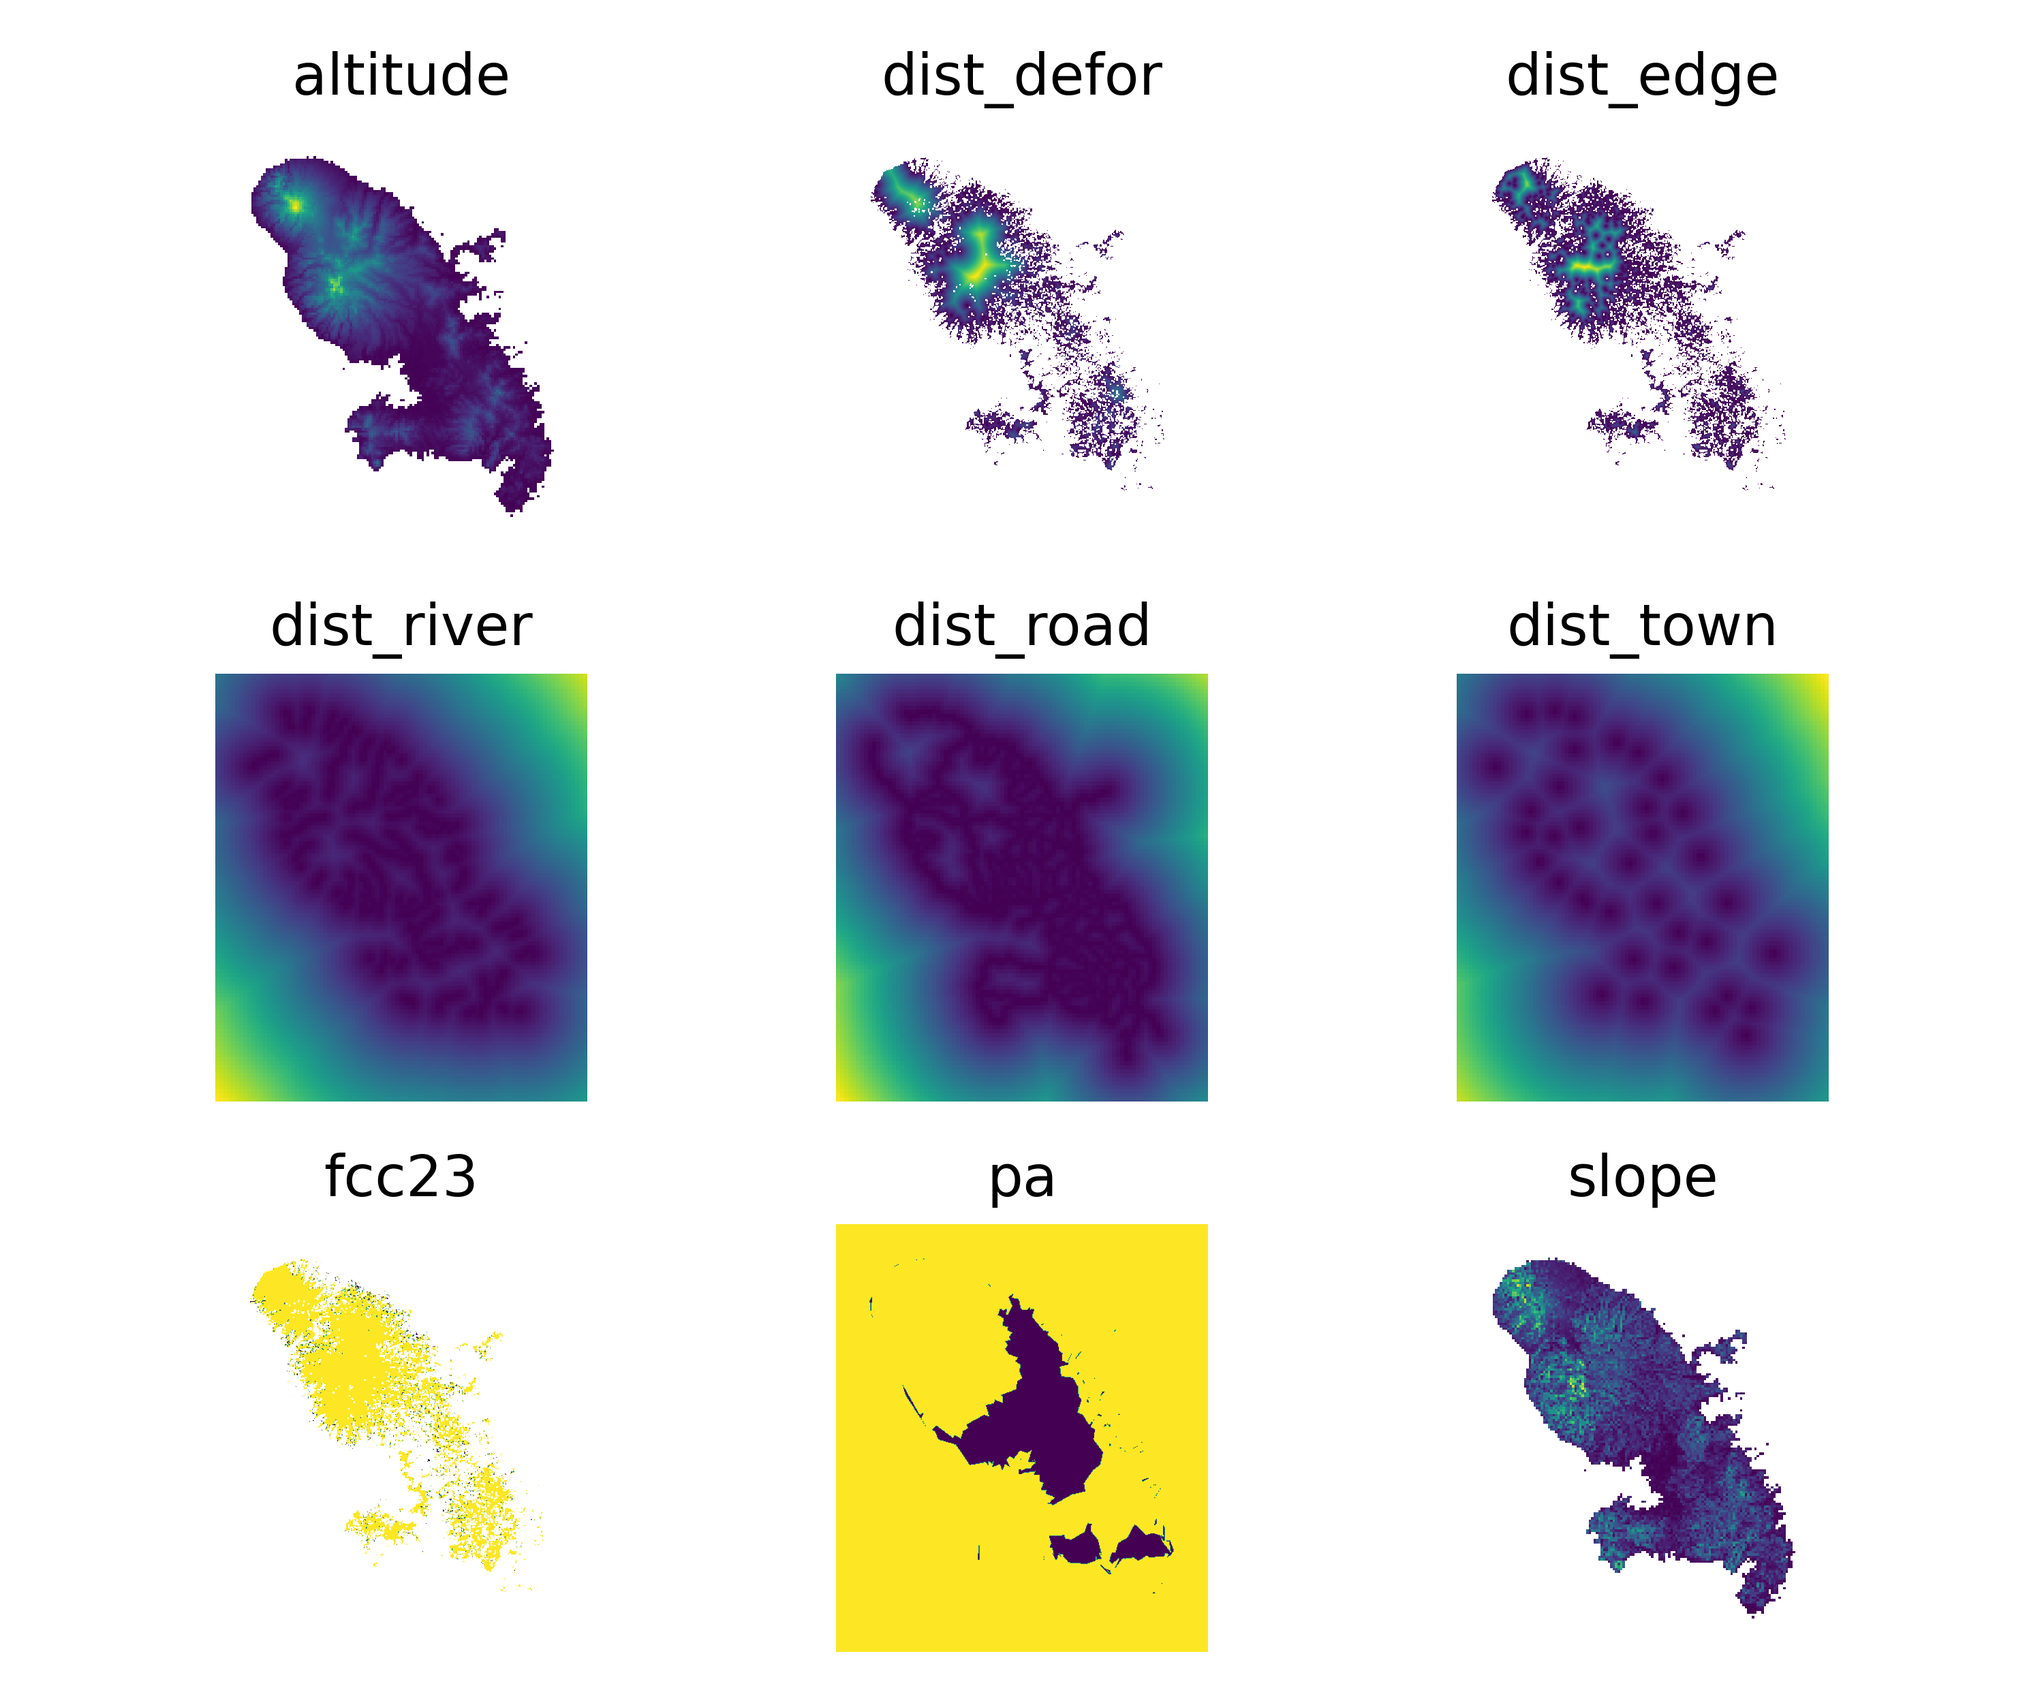
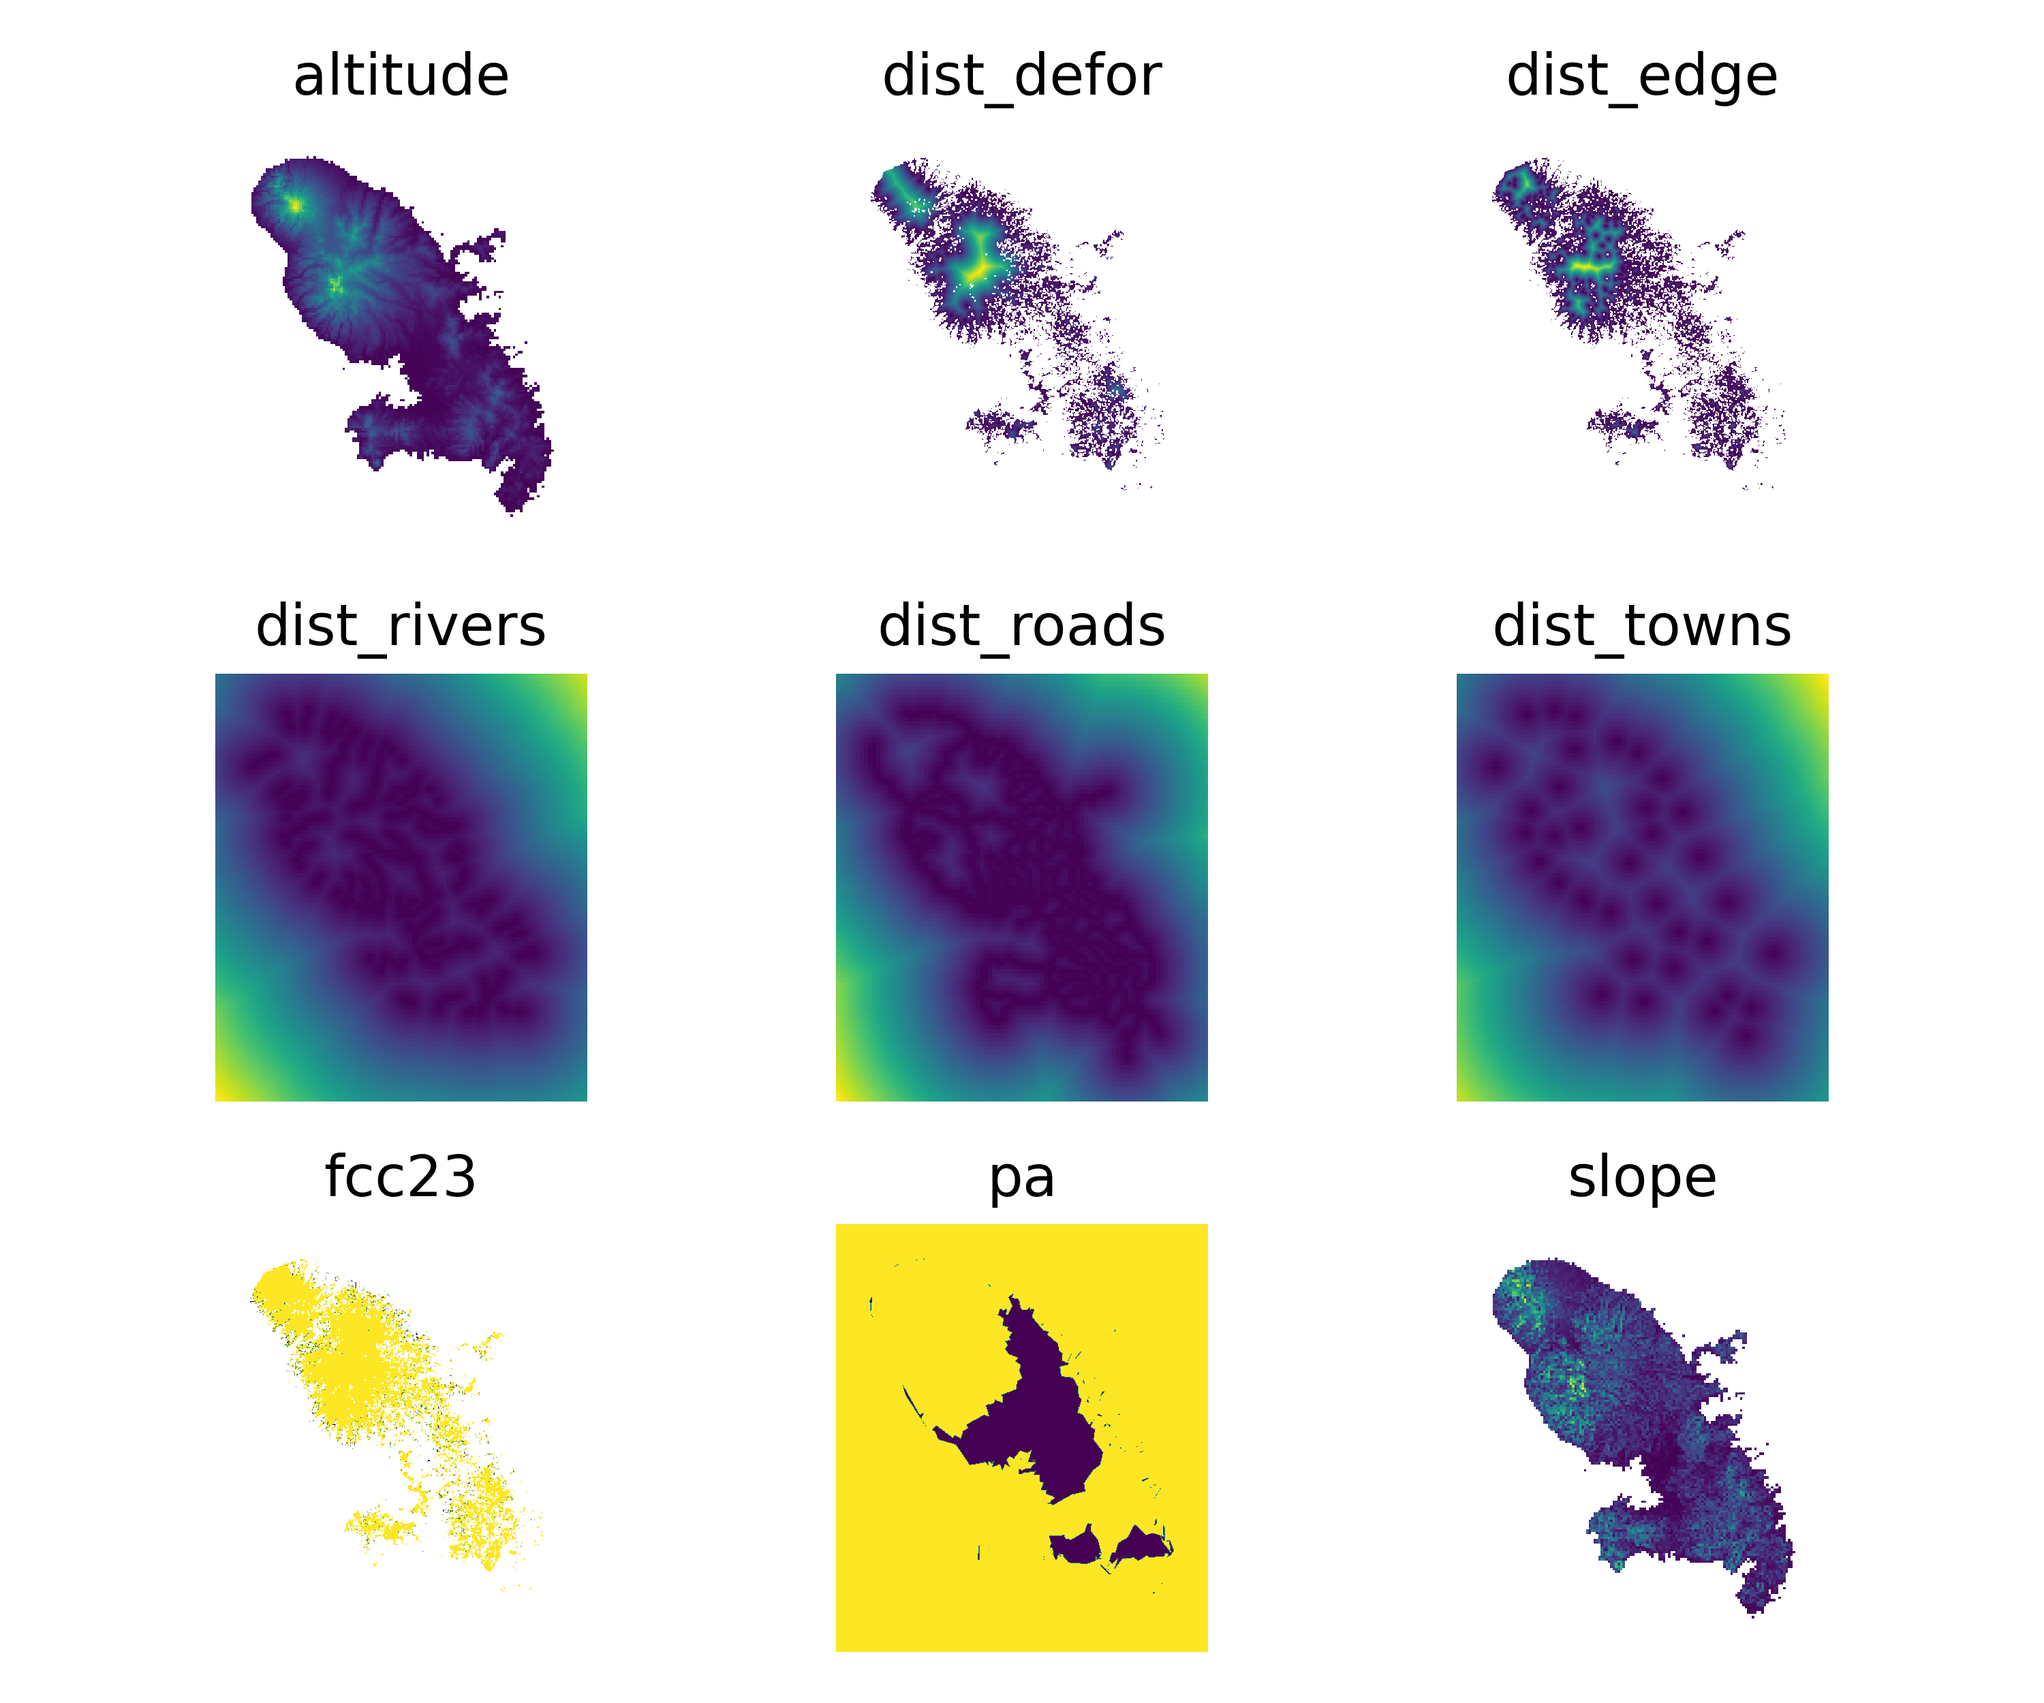
Need shell=True in subprocess.run for osmconvert/osmfilter

diff --git a/forestatrisk/data/country_compute.py b/forestatrisk/data/country_compute.py
@@ -33,18 +33,20 @@ def country_compute(
 
     :param iso3: Country ISO 3166-1 alpha-3 code.
 
-    :param temp_dir: Temporary directory for computation.
+    :param temp_dir: Temporary directory for computation. Relative
+        path to the current working directory.
 
-    :param output_dir: Output directory.
+    :param output_dir: Output directory. Relative path to the current
+        working directory.
 
     :param proj: Projection definition (EPSG, PROJ.4, WKT) as in
         GDAL/OGR. Default to "EPSG:3395" (World Mercator).
 
-    :param data_country: Boolean for running data_country.sh to
-        compute country variables. Default to "True".
+    :param data_country: Boolean to compute environmental
+        variables for the country. Default to "True".
 
-    :param data_forest: Boolean for running data_forest.sh to
-        compute forest landscape variables. Default to "True".
+    :param data_forest: Boolean to compute forest variables. Default
+        to "True".
 
     :param keep_temp_dir: Boolean to keep the temporary
         directory. Default to "False".
@@ -65,18 +67,16 @@ def country_compute(
     gdal.VectorTranslate(ofile, ifile, options=param)
 
     # Compute extent
-    print("Compute extent")
     ifile = os.path.join(temp_dir, "ctry_PROJ.shp")
     extent_proj = extent_shp(ifile)
 
     # Region with buffer of 5km
-    print("Region with buffer of 5km")
     xmin_reg = np.floor(extent_proj[0] - 5000)
     ymin_reg = np.floor(extent_proj[1] - 5000)
     xmax_reg = np.ceil(extent_proj[2] + 5000)
     ymax_reg = np.ceil(extent_proj[3] + 5000)
     extent_reg = (xmin_reg, ymin_reg, xmax_reg, ymax_reg)
-    extent = " ".join(extent_reg)
+    extent = " ".join(map(str, extent_reg))
 
     # Computing country data
     if data_country:
@@ -89,14 +89,14 @@ def country_compute(
         compute_wdpa(iso3, proj, extent_reg)
         compute_biomass_avitabile(proj, extent_reg)
         # Moving created files
-        make_dir(os.path.join(output_dir, "emissions"))
-        copy2("AGB.tif", os.path.join(output_dir, "emissions"))
+        make_dir(os.path.join(wd, output_dir, "emissions"))
+        copy2("AGB.tif", os.path.join(wd, output_dir, "emissions"))
         dist_files = glob("dist_*.tif")
         proj_files = glob("*_PROJ.*")
-        other_files = ["altitude", "slope.tif", "pa.tif"]
+        other_files = ["altitude.tif", "slope.tif", "pa.tif"]
         files = dist_files + proj_files + other_files
         for file in files:
-            copy2(file, output_dir)
+            copy2(file, os.path.join(wd, output_dir))
         os.chdir(wd)
 
     # Computing forest data

diff --git a/forestatrisk/data/compute/compute_osm.py b/forestatrisk/data/compute/compute_osm.py
@@ -22,24 +22,35 @@ def compute_osm(proj, extent, verbose=False):
 
     # Convert osm.pbf to o5m
     cmd = "osmconvert country.osm.pbf -o=country.o5m"
-    subprocess.run(cmd, capture_output=True, check=True)
+    rtn = subprocess.run(cmd, capture_output=True, shell=True)
+    if verbose:
+        print(rtn.stdout.decode())
 
     # Filter data
-    cmd = (
-        'osmfilter country.o5m --keep="highway=motorway '
-        'or highway=trunk or highway=*ary" -o=roads.osm'
-    )
-    subprocess.run(cmd, capture_output=True, check=True)
-    cmd = (
-        'osmfilter country.o5m --keep="place=city '
-        'or place=town or place=village" -o=towns.osm'
-    )
-    subprocess.run(cmd, capture_output=True, check=True)
-    cmd = (
-        'osmfilter country.o5m --keep="waterway=river '
-        'or waterway=canal" -o=rivers.osm'
-    )
-    subprocess.run(cmd, capture_output=True, check=True)
+    # Roads
+    cmd = ('osmfilter country.o5m '
+           '--keep="highway=motorway '
+           'or highway=trunk or highway=*ary" '
+           '-o=roads.osm')
+    subprocess.run(cmd, capture_output=True, shell=True)
+    if verbose:
+        print(rtn.stdout.decode())
+    # Towns
+    cmd = ('osmfilter country.o5m '
+           '--keep="place=city or '
+           'place=town or place=village" '
+           '-o=towns.osm')
+    subprocess.run(cmd, capture_output=True, shell=True)
+    if verbose:
+        print(rtn.stdout.decode())
+    # Rivers
+    cmd = ('osmfilter country.o5m '
+           '--keep="waterway=river or '
+           'waterway=canal" '
+           '-o=rivers.osm')
+    subprocess.run(cmd, capture_output=True, shell=True)
+    if verbose:
+        print(rtn.stdout.decode())
 
     # Callback
     cback = gdal.TermProgress if verbose else 0
@@ -98,7 +109,7 @@ def compute_osm(proj, extent, verbose=False):
         # Compute distances
         compute_distance(
             input_file=cat + ".tif",
-            dist_file="_dist_" + cat + ".tif",
+            dist_file="dist_" + cat + ".tif",
             values=1,
             verbose=verbose,
         )

diff --git a/forestatrisk/data/compute/compute_wdpa.py b/forestatrisk/data/compute/compute_wdpa.py
@@ -29,10 +29,10 @@ def compute_wdpa(iso, proj, extent, where=None, verbose=False):
     # Defaut value for where
     if where is None:
         where_statement = (
-            'status="Designated" OR '
-            'status="Inscribed" OR '
-            'status="Established" OR '
-            '(status="Proposed" AND '
+            "status='Designated' OR "
+            "status='Inscribed' OR "
+            "status='Established' OR "
+            "(status='Proposed' AND "
             "CAST(SUBSTR(date,7,4) AS INTEGER) < 2010)"
         )
     else:
@@ -47,12 +47,12 @@ def compute_wdpa(iso, proj, extent, where=None, verbose=False):
         srcSRS="EPSG:4326",
         dstSRS=proj,
         layerCreationOptions=["ENCODING=UTF-8"],
-        callback=cback,
+        callback=cback
     )
     gdal.VectorTranslate("pa_PROJ.shp", "pa_" + iso + ".shp", options=param)
 
     # Rasterize
-    gdal.RasterizeOptions(
+    param = gdal.RasterizeOptions(
         outputBounds=extent,
         targetAlignedPixels=True,
         burnValues=[1],
@@ -64,7 +64,7 @@ def compute_wdpa(iso, proj, extent, where=None, verbose=False):
         layers=["pa_PROJ"],
         outputType=gdal.GDT_Byte,
         creationOptions=["COMPRESS=LZW", "PREDICTOR=2", "BIGTIFF=YES"],
-        callback=cback,
+        callback=cback
     )
     gdal.Rasterize("pa.tif", "pa_PROJ.shp", options=param)
 

diff --git a/test/test_get_started.py b/test/test_get_started.py
@@ -1,14 +1,4 @@
-#!/usr/bin/env python
-# -*- coding: utf-8 -*-
-
-# ==============================================================================
-# author          :Ghislain Vieilledent
-# email           :ghislain.vieilledent@cirad.fr, ghislainv@gmail.com
-# web             :https://ecology.ghislainv.fr
-# python_version  :>=2.7
-# license         :GPLv3
-# ==============================================================================
-
+"""Testing funtions in get started tutorial."""
 
 import os
 
@@ -139,7 +129,6 @@ def test_model_binomial_icar(gstart):
     )
 
     assert np.allclose(gstart["pred_icar"][0:100], pred_icar_first100)
-    # assert type(gstart["pred_icar"]).__name__ == "ndarray"
 
 def test_rho(gstart):
     """Test rho."""
@@ -169,7 +158,7 @@ def test_rho(gstart):
     )
 
     assert np.allclose(gstart["rho"], rho)
-    # assert type(gstart["rho"]).__name__ == "ndarray"
+
 
 def test_interpolate_rho():
     """Test interpolate."""

diff --git a/forestatrisk/data/run_gee/run_gee_forest.py b/forestatrisk/data/run_gee/run_gee_forest.py
@@ -97,7 +97,7 @@ def run_gee_forest(
                 extent_latlong=extent_latlong,
                 scale=30,
                 proj=proj,
-                gdrive_folder=gdrive_folder,
+                gdrive_folder=os.path.basename(gdrive_folder),
             )
             print("GEE running on the following extent:")
             print(str(extent_latlong))
@@ -114,7 +114,7 @@ def run_gee_forest(
                 extent_latlong=extent_latlong,
                 scale=30,
                 proj=proj,
-                gdrive_folder=gdrive_folder,
+                gdrive_folder=os.path.basename(gdrive_folder),
             )
             print("GEE running on the following extent:")
             print(str(extent_latlong))

diff --git a/forestatrisk/data/download/download_osm.py b/forestatrisk/data/download/download_osm.py
@@ -34,7 +34,7 @@ def download_osm(iso3, output_dir="."):
     if os.path.isfile(fname) is not True:
         # Identify continent and country from iso3
         file_run = pkg_resources.resource_filename(
-            "forestatrisk", os.path.join("data", "ctry_run.csv")
+            "forestatrisk", os.path.join("csv", "ctry_run.csv")
         )
         data_run = pd.read_csv(file_run, sep=";", header=0)
         # Check if data is available on Geofabrik

diff --git a/forestatrisk/data/run_gee/run_gee_biomass_whrc.py b/forestatrisk/data/run_gee/run_gee_biomass_whrc.py
@@ -84,7 +84,7 @@ def run_gee_biomass_whrc(
             extent_latlong=extent_latlong,
             scale=30,
             proj=proj,
-            gdrive_folder=gdrive_folder,
+            gdrive_folder=os.path.basename(gdrive_folder),
         )
         print("GEE running on the following extent:")
         print(str(extent_latlong))

diff --git a/docsrc/notebooks/country_data/country_data.rst b/docsrc/notebooks/country_data/country_data.rst
@@ -36,12 +36,6 @@ We import the Python modules needed for collecting the data.
     from pywdpa import get_token
     import forestatrisk as far
 
-::
-
-    # forestatrisk: modelling and forecasting deforestation in the tropics.
-    # https://ecology.ghislainv.fr/forestatrisk/
-
-
 We create some directories to hold the data and the ouputs with the
 function ``far.make_dir()``.
 
@@ -78,7 +72,7 @@ Google Drive.
 Google Earth Engine is used to compute the past forest cover change
 from Vancutsem et al. 2021 or Hansen et al. 2013. To get credentials
 for using the Google Earth Engine API, follow these
-`instructions <https://developers.google.com/earth-engine/guides/python_install-conda#get_credentials>`__. While authentication with ``ee.Authenticate()`` should be
+`instructions <https://developers.google.com/earth-engine/guides/python_install-conda#get_credentials>`_. While authentication with ``ee.Authenticate()`` should be
 necessary only once, you have to execute the command ``ee.Initialize()``
 at each session.
 
@@ -86,7 +80,7 @@ at each session.
 
     # Uncomment to authenticate for the first time.
     # ee.Authenticate()
-    ee.Initialize()
+    ee.Initialize(project="forestatrisk")
 
 Under Linux and Mac, credentials are stored in
 ``$HOME/.config/earthengine/credentials``.
@@ -99,8 +93,8 @@ Under Linux and Mac, credentials are stored in
 ^^^^^^^^^^^^^^^^^^^^^^^^^^^^^^^^^^^^^^^^
 
 RClone is used to download the forest cover change raster locally from
-Google Drive. To install RClone, follow these `instructions <https://rclone.org/install/>`__. To
-configure the access to your Google Drive, follow these `instructions <https://rclone.org/drive/>`__.
+Google Drive. To install RClone, follow these `instructions <https://rclone.org/install/>`_. To
+configure the access to your Google Drive, follow these `instructions <https://rclone.org/drive/>`_.
 
 1.2.3 Access to WDPA API
 ^^^^^^^^^^^^^^^^^^^^^^^^
@@ -142,7 +136,8 @@ We compute the past forest cover change from Vancutsem et al. 2021
 using Google Earth Engine. The argument ``gdrive_remote_rclone`` of the
 function `far.data.country\_forest\_run() <https://ecology.ghislainv.fr/forestatrisk/subpackages/forestatrisk.build_data.html#forestatrisk.build_data.data.country_forest_run>`_ specifies the name of the
 Google Drive remote for rclone. The argument ``gdrive_folder`` specifies
-the name of the Google Drive folder to use.
+the name of the Google Drive folder to use. In this case, folder
+``GEE/GEE-forestatrisk-notebooks`` should exist in Google Drive.
 
 .. code:: python
 
@@ -153,13 +148,7 @@ the name of the Google Drive folder to use.
         keep_dir=True,
         fcc_source="jrc", perc=50,
         gdrive_remote_rclone="gdrive_gv",
-        gdrive_folder="GEE-forestatrisk-notebooks")
-
-::
-
-    Run Google Earth Engine
-    GEE running on the following extent:
-    (-61.22902679, 14.38819408, -60.80875015, 14.87902832)
+        gdrive_folder="GEE/GEE-forestatrisk-notebooks")
 
 2.2 Download raw data
 ~~~~~~~~~~~~~~~~~~~~~
@@ -170,13 +159,14 @@ the name of the Google Drive folder to use.
     far.data.country_download(
         iso3,
         gdrive_remote_rclone="gdrive_gv",
-        gdrive_folder="GEE-forestatrisk-notebooks",
+        gdrive_folder="GEE/GEE-forestatrisk-notebooks",
         output_dir="data_raw")   
 
 ::
 
     Downloading data for country MTQ
     SRTM not existing for tile: 25_09
+    Data for MTQ have been downloaded
 
 2.3 Compute explanatory variables
 ~~~~~~~~~~~~~~~~~~~~~~~~~~~~~~~~~
@@ -218,16 +208,6 @@ The ``data`` folder includes:
   different dates used for projections in the future, and forest carbon
   data for computing carbon emissions.
 
-.. code:: python
-
-    # Plot forest
-    fig_fcc23 = far.plot.fcc(
-        input_fcc_raster="data/fcc23.tif",
-        maxpixels=1e8,
-        output_file="output/fcc23.png",
-        borders="data/ctry_PROJ.shp",
-        linewidth=0.3, dpi=500)
-
 Variable characteristics are summarized in the following table:
 
 .. table::
@@ -255,7 +235,7 @@ Variable characteristics are summarized in the following table:
 2.5 Plots
 ~~~~~~~~~
 
-We can plot the past deforestation on the period 2000--2010--2020:
+We can plot the past deforestation for the period 2000--2010--2020:
 
 .. code:: python
 
